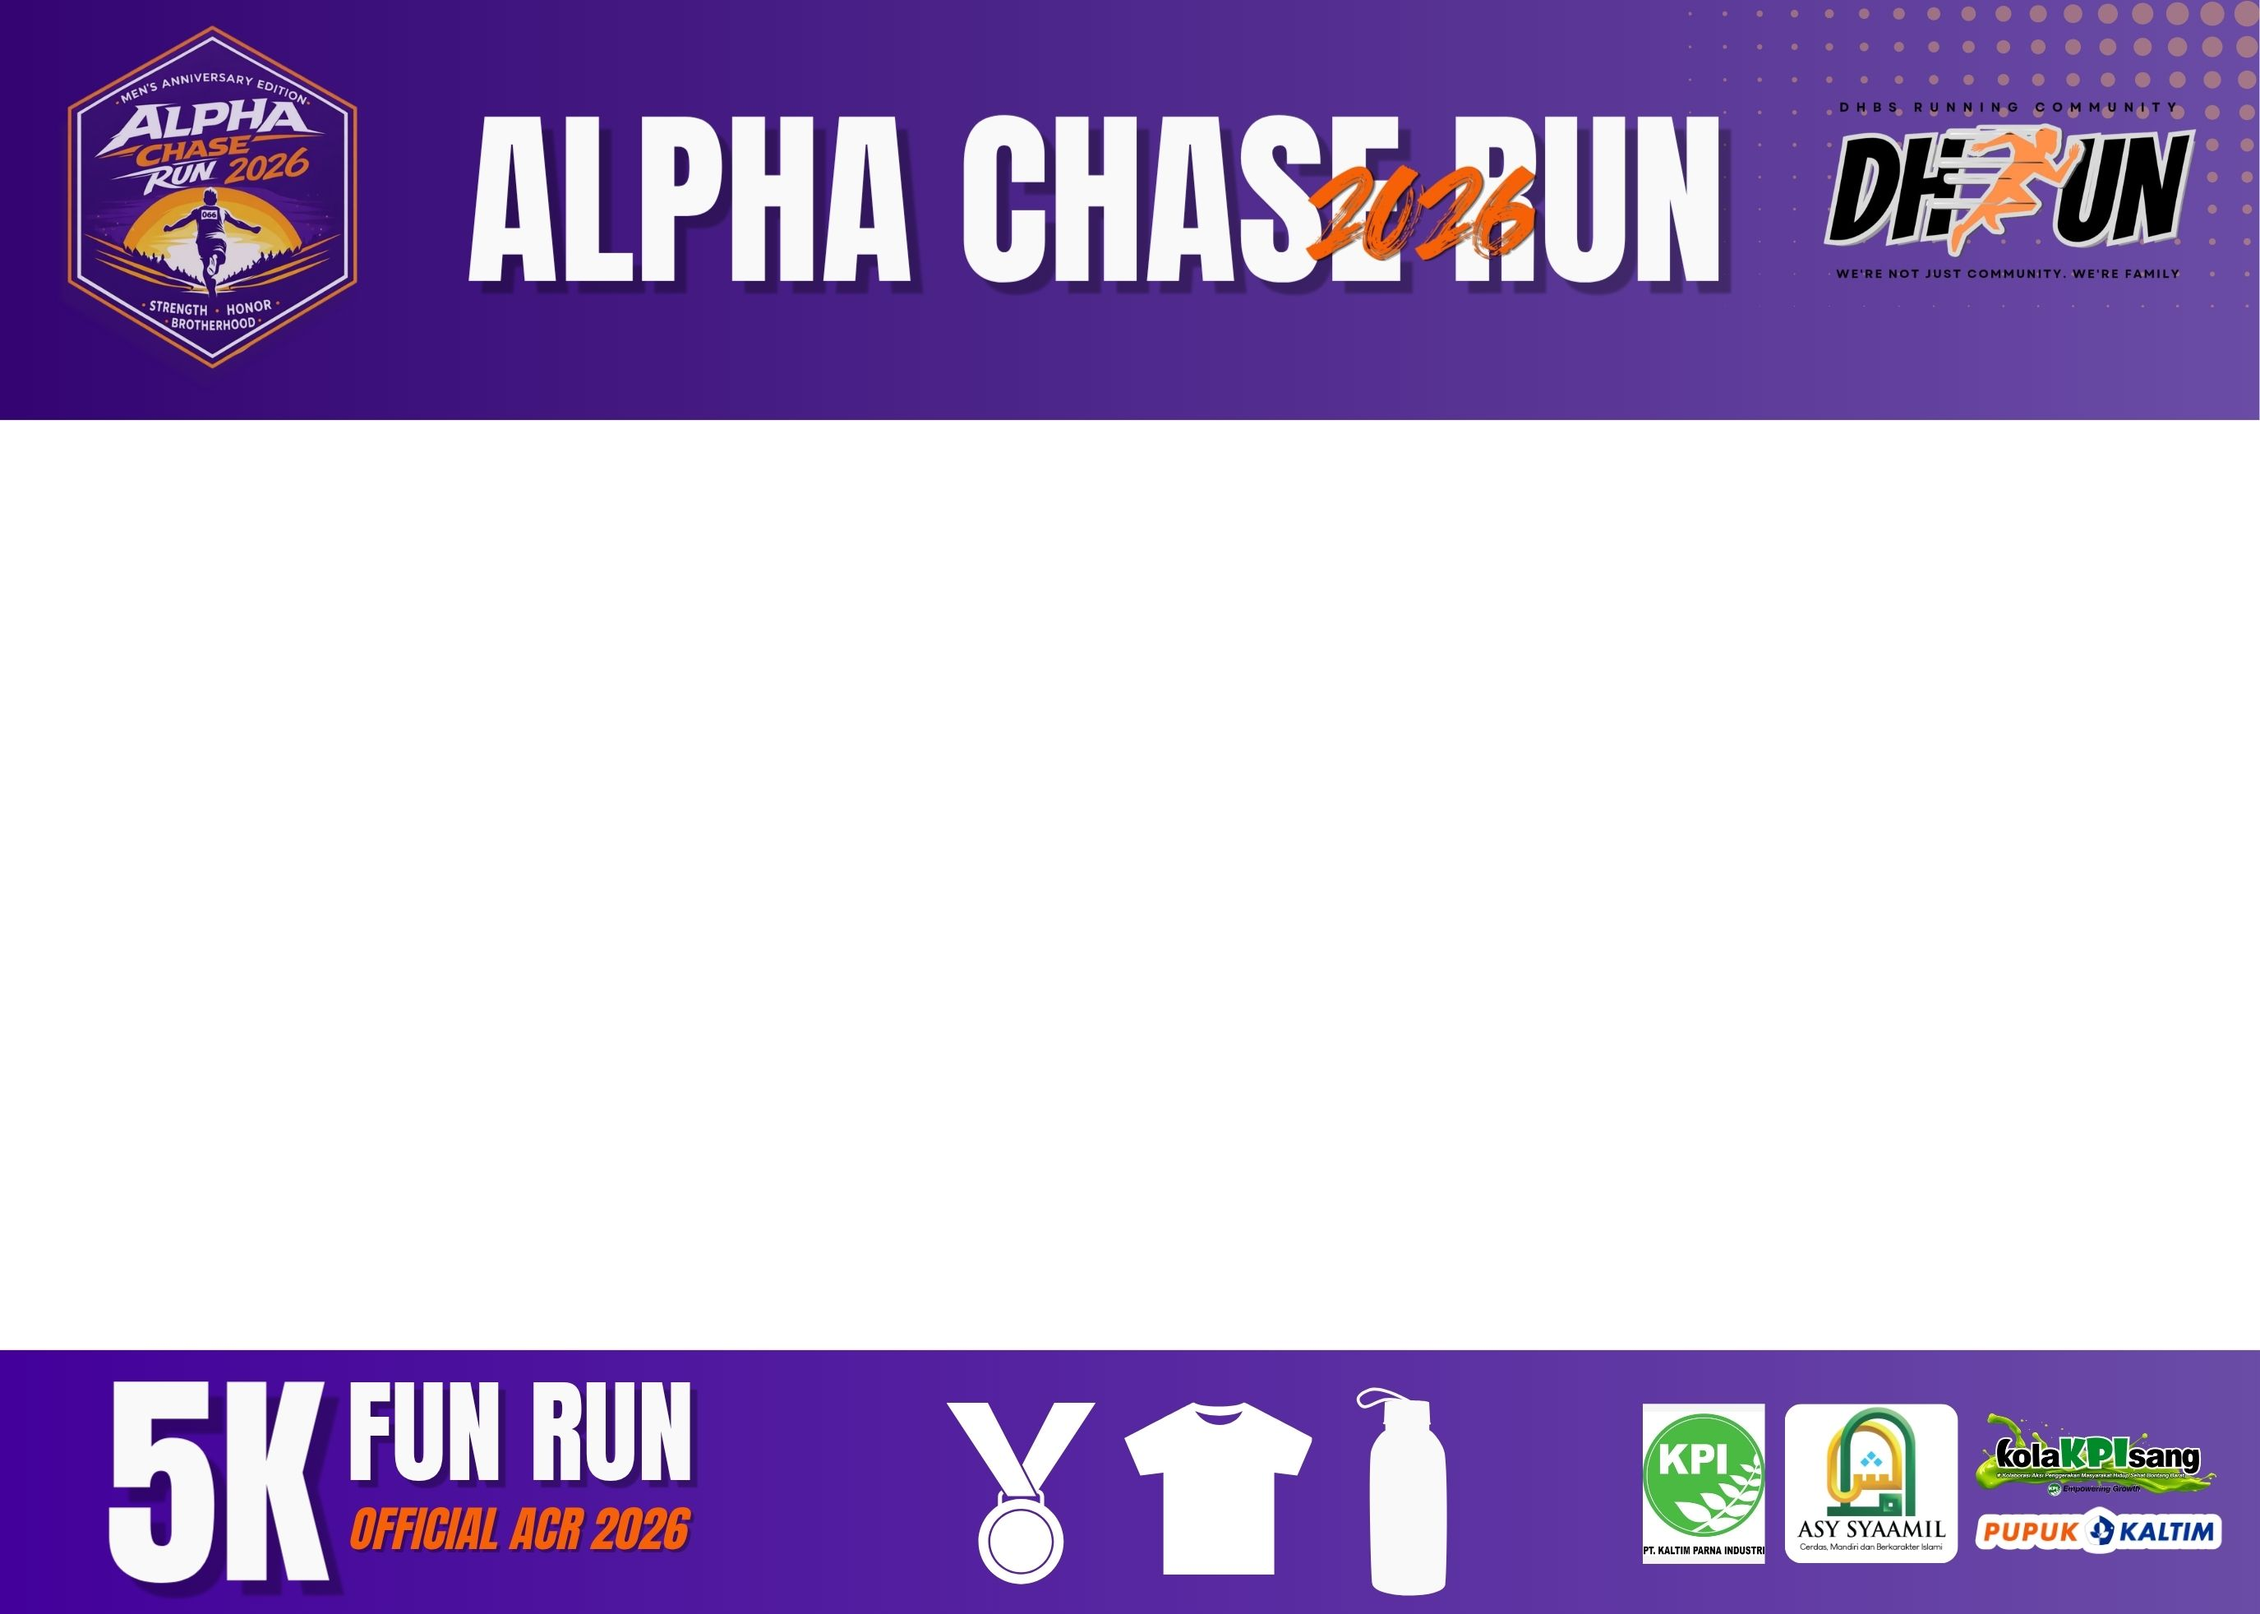
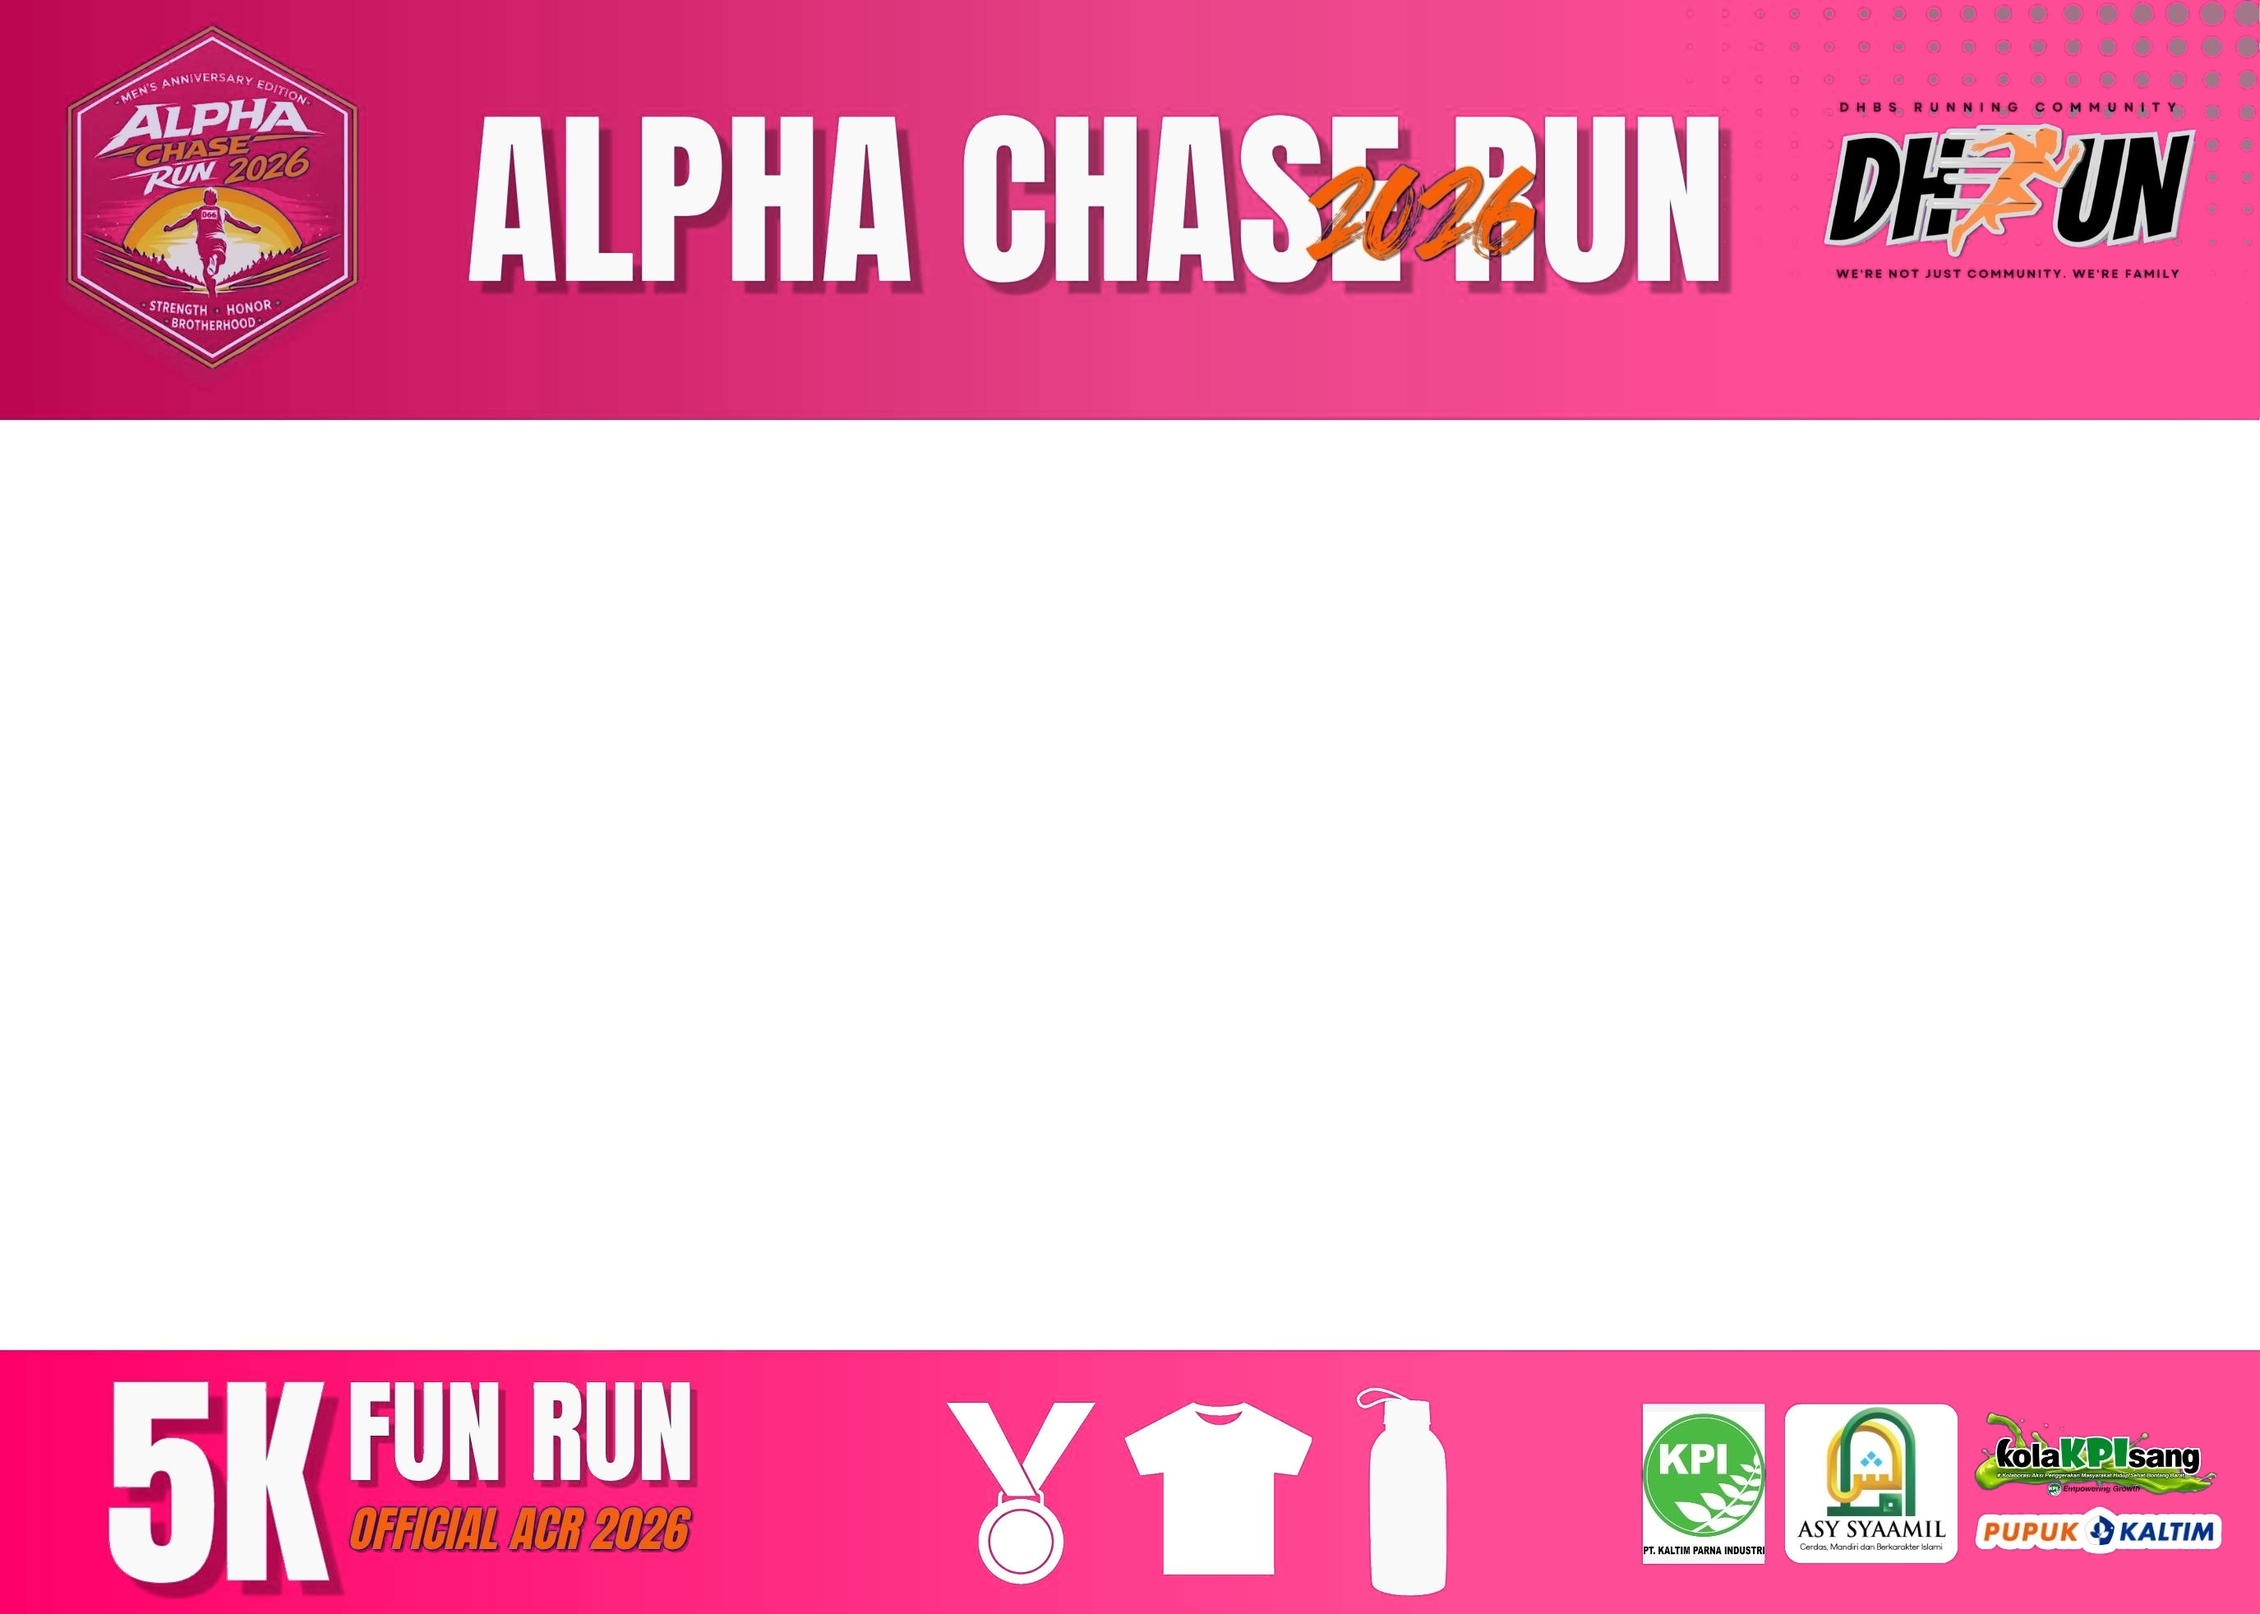
Change Fun Run BIB background to vibrant bright pink for distinct marshal recognition

diff --git a/js/app.js b/js/app.js
@@ -3080,7 +3080,7 @@ window.createBibCanvas = async function(p, customScale = 1.0) {
     } else if (katStr.includes('fun')) {
         categoryPrefix = 'F';
         templateSrc = 'images/bib_bg_funrun.jpg';
-        themeColor = '#b31b7a'; // Pink Fun Run
+        themeColor = '#e11d78'; // Bright Pink Fun Run
     } else if (katStr.includes('kid')) {
         categoryPrefix = 'K';
         templateSrc = 'images/bib_bg_kids.jpg';
@@ -3113,7 +3113,7 @@ window.createBibCanvas = async function(p, customScale = 1.0) {
         themeColor = '#1628d2';
     } else if (bibPrefix === 'F') {
         templateSrc = 'images/bib_bg_funrun.jpg';
-        themeColor = '#b31b7a';
+        themeColor = '#e11d78';
     } else if (bibPrefix === 'K') {
         templateSrc = 'images/bib_bg_kids.jpg';
         themeColor = '#f65f04';
@@ -3174,7 +3174,7 @@ window.createBibCanvas = async function(p, customScale = 1.0) {
 
     // Label di Bawah QR Code
     ctx.textAlign = 'center';
-    ctx.fillStyle = '#6d28d9';
+    ctx.fillStyle = themeColor;
     ctx.font = `900 ${Math.round(18 * scale)}px "Montserrat", sans-serif`;
     ctx.fillText("SCAN START & FINISH", qrCardX + qrCardW / 2, qrCardY + Math.round(315 * scale));
 
